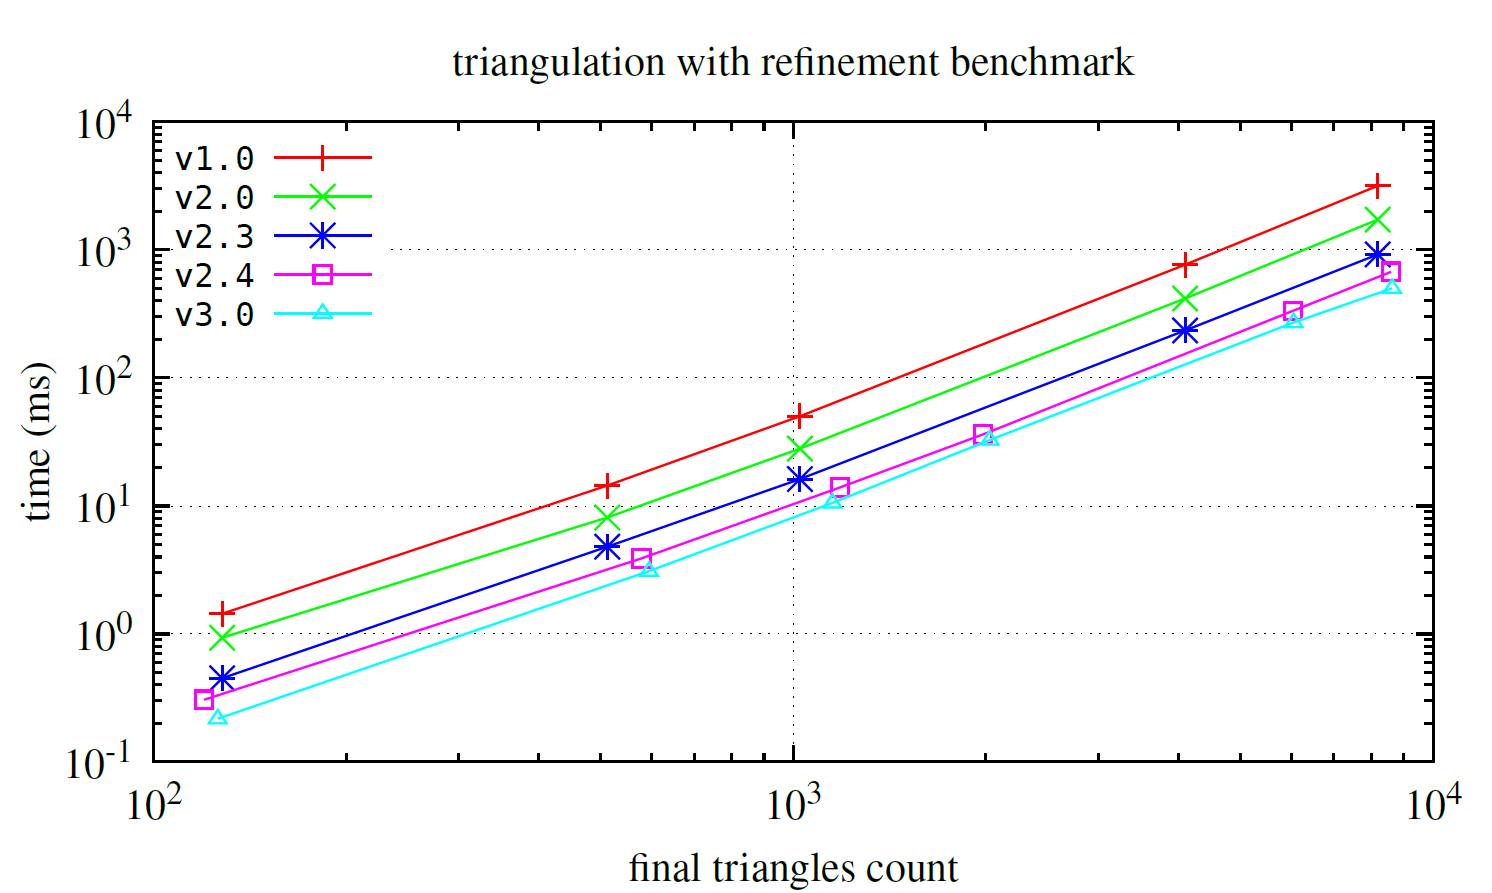
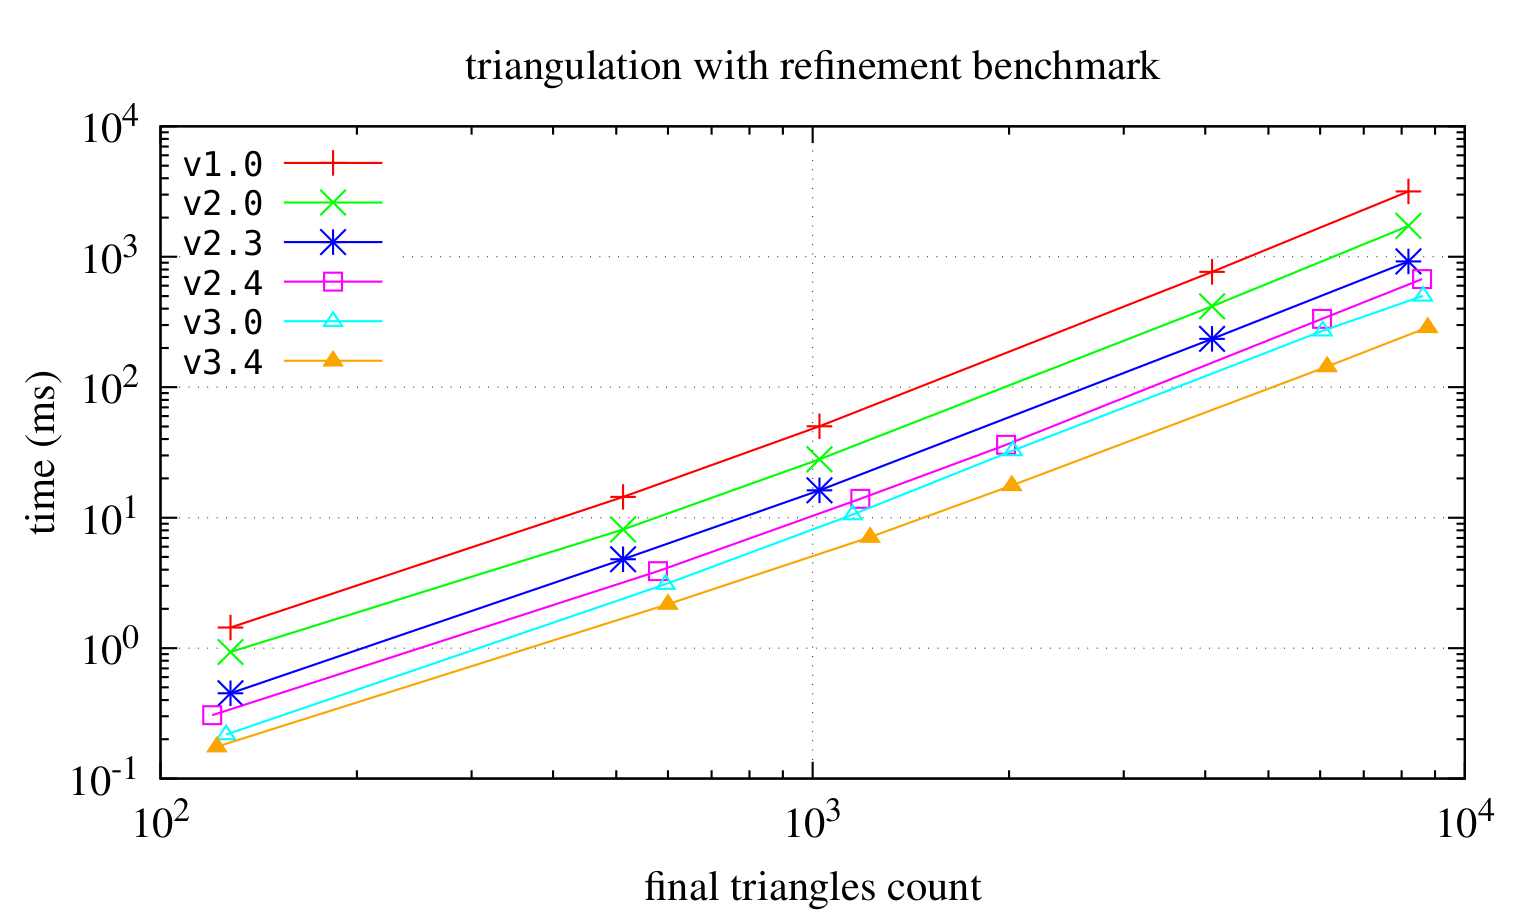
docs: update refinement benchmark
**Note:** after recent fixes and refactors refinement step is almost x2 faster than previously.

Changed region(s): [[0.0, 0.1209, 0.9866, 0.9978], [0.2775, 0.0605, 0.7708, 0.0907]]

diff --git a/Documentation~/manual/benchmark.md b/Documentation~/manual/benchmark.md
@@ -35,7 +35,7 @@ The presented result is for `T2 = float2`.
 
 ## Delaunay triangulation with mesh refinement
 
-Furthermore, we present a performance comparison (with Burst enabled) between `v1.0`, `v2.0`, `v2.3`, `v2.4`, and `v3.0` for the refinement task.
+Furthermore, we present a performance comparison (with Burst enabled) between `v1.0`, `v2.0`, `v2.3`, `v2.4`, `v3.0`, and `v3.4` for the refinement task.
 The presented result is for `T2 = float2`.
 
 ![Refinement Benchmark](../images/benchmark-refinement.png)
